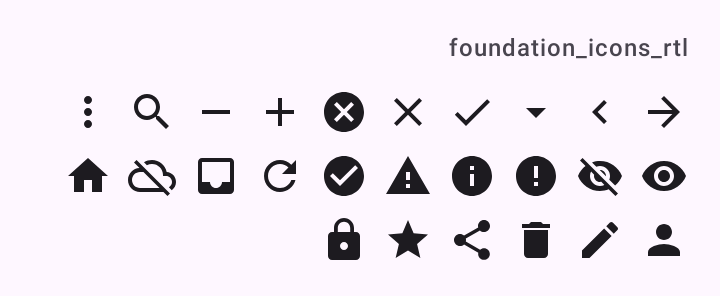
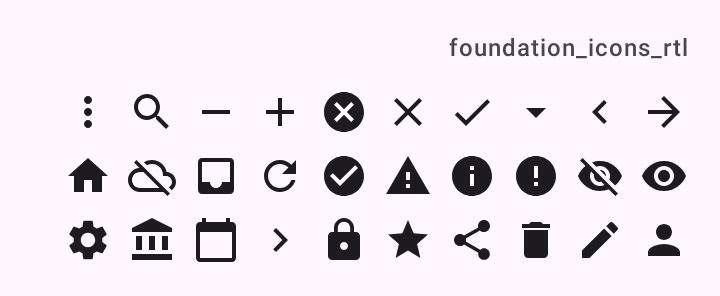
Add CalendarToday, AccountBalance, Settings and ChevronLeft to DSIcons
Material Icons paths like the rest, checked against the Compose material-icons-extended 1.7.8 sources
(Icons.Filled.*) and google/material-design-icons. ChevronLeft auto-mirrors, the pair of ChevronRight. The
reference-app Android skeleton drew these by hand in AppIcons (its bank is the older, asymmetric Material shape;
DSKit takes the current one).
Tests: foundation_icons screenshots re-recorded with the four new icons at the end of the grid.

Claude-Session: https://claude.ai/code/session_01RPbpMUomGDBckwBUsFQprE

diff --git a/components/src/main/kotlin/io/github/romulomga/dskit/utilities/DSIcons.kt b/components/src/main/kotlin/io/github/romulomga/dskit/utilities/DSIcons.kt
@@ -9,9 +9,9 @@ import androidx.compose.ui.graphics.vector.addPathNodes
 import androidx.compose.ui.unit.dp
 
 /**
- * Os ícones do Material que os próprios componentes do DSKit desenham, com os nomes do Material (`Icons.Filled.*`).
- * Os de direção (voltar, chevron) espelham sozinhos em árabe. Ícones do app entram pelos parâmetros
- * `icon: ImageVector` dos componentes.
+ * Os ícones do Material que os próprios componentes do DSKit desenham e os que todo app repete (abas, ajustes,
+ * calendário), com os nomes do Material (`Icons.Filled.*`). Os de direção (voltar, chevron) espelham sozinhos em
+ * árabe. Ícones só do app entram pelos parâmetros `icon: ImageVector` dos componentes.
  */
 public object DSIcons {
     /** Voltar, na barra superior. */
@@ -27,6 +27,15 @@ public object DSIcons {
         icon(
             "ChevronRight",
             "M10,6L8.59,7.41 13.17,12l-4.58,4.59L10,18l6,-6z",
+            autoMirror = true
+        )
+    }
+
+    /** Anterior (o par do [ChevronRight]): o mês ou o ano de antes, num seletor de período. */
+    public val ChevronLeft: ImageVector by lazy {
+        icon(
+            "ChevronLeft",
+            "M15.41,7.41L14,6l-6,6 6,6 1.41,-1.41L10.83,12z",
             autoMirror = true
         )
     }
@@ -196,6 +205,36 @@ public object DSIcons {
             "M18,8h-1L17,6c0,-2.76 -2.24,-5 -5,-5S7,3.24 7,6v2L6,8c-1.1,0 -2,0.9 -2,2v10c0,1.1 0.9,2 2,2h12c1.1,0 2,-0.9 2," +
                 "-2L20,10c0,-1.1 -0.9,-2 -2,-2zM12,17c-1.1,0 -2,-0.9 -2,-2s0.9,-2 2,-2 2,0.9 2,2 -0.9,2 -2,2zM15.1,8L8.9,8L8.9," +
                 "6c0,-1.71 1.39,-3.1 3.1,-3.1 1.71,0 3.1,1.39 3.1,3.1v2z"
+        )
+    }
+
+    /** Data, agenda, feriados. */
+    public val CalendarToday: ImageVector by lazy {
+        icon(
+            "CalendarToday",
+            "M20,3h-1V1h-2v2H7V1H5v2H4c-1.1,0 -2,0.9 -2,2v16c0,1.1 0.9,2 2,2h16c1.1,0 2,-0.9 2,-2V5c0,-1.1 -0.9,-2 -2,-2z" +
+                "M20,21H4V8h16v13z"
+        )
+    }
+
+    /** Banco, conta, finanças. */
+    public val AccountBalance: ImageVector by lazy {
+        icon("AccountBalance", "M4,10h3v7H4zM10.5,10h3v7h-3zM2,19h20v3H2zM17,10h3v7h-3zM12,1L2,6v2h20V6z")
+    }
+
+    /** Ajustes. */
+    public val Settings: ImageVector by lazy {
+        icon(
+            "Settings",
+            "M19.14,12.94c0.04,-0.3 0.06,-0.61 0.06,-0.94c0,-0.32 -0.02,-0.64 -0.07,-0.94l2.03,-1.58c0.18,-0.14 0.23,-0.41 " +
+                "0.12,-0.61l-1.92,-3.32c-0.12,-0.22 -0.37,-0.29 -0.59,-0.22l-2.39,0.96c-0.5,-0.38 -1.03,-0.7 -1.62,-0.94L14.4," +
+                "2.81c-0.04,-0.24 -0.24,-0.41 -0.48,-0.41h-3.84c-0.24,0 -0.43,0.17 -0.47,0.41L9.25,5.35C8.66,5.59 8.12,5.92 " +
+                "7.63,6.29L5.24,5.33c-0.22,-0.08 -0.47,0 -0.59,0.22L2.74,8.87C2.62,9.08 2.66,9.34 2.86,9.48l2.03,1.58C4.84," +
+                "11.36 4.8,11.69 4.8,12s0.02,0.64 0.07,0.94l-2.03,1.58c-0.18,0.14 -0.23,0.41 -0.12,0.61l1.92,3.32c0.12,0.22 " +
+                "0.37,0.29 0.59,0.22l2.39,-0.96c0.5,0.38 1.03,0.7 1.62,0.94l0.36,2.54c0.05,0.24 0.24,0.41 0.48,0.41h3.84c0.24," +
+                "0 0.44,-0.17 0.47,-0.41l0.36,-2.54c0.59,-0.24 1.13,-0.56 1.62,-0.94l2.39,0.96c0.22,0.08 0.47,0 0.59,-0.22l1.92," +
+                "-3.32c0.12,-0.22 0.07,-0.47 -0.12,-0.61L19.14,12.94zM12,15.6c-1.98,0 -3.6,-1.62 -3.6,-3.6s1.62,-3.6 3.6," +
+                "-3.6s3.6,1.62 3.6,3.6S13.98,15.6 12,15.6z"
         )
     }
 

diff --git a/components/src/test/kotlin/io/github/romulomga/dskit/FoundationScreenshotTest.kt b/components/src/test/kotlin/io/github/romulomga/dskit/FoundationScreenshotTest.kt
@@ -54,7 +54,7 @@ class FoundationScreenshotTest : ScreenshotTestBase() {
                 DSIcons.Add, DSIcons.Remove, DSIcons.Search, DSIcons.MoreVert, DSIcons.Visibility, DSIcons.VisibilityOff,
                 DSIcons.Error, DSIcons.Info, DSIcons.Warning, DSIcons.CheckCircle, DSIcons.Refresh, DSIcons.Inbox,
                 DSIcons.CloudOff, DSIcons.Home, DSIcons.Person, DSIcons.Edit, DSIcons.Delete, DSIcons.Share, DSIcons.Star,
-                DSIcons.Lock
+                DSIcons.Lock, DSIcons.ChevronLeft, DSIcons.CalendarToday, DSIcons.AccountBalance, DSIcons.Settings
             ).forEach { Icon(it, contentDescription = null, tint = DSTheme.colors.onSurface) }
         }
     }

diff --git a/CHANGELOG.md b/CHANGELOG.md
@@ -6,6 +6,13 @@ quebra vem descrita aqui com o código de migração.
 
 ## [Não lançado]
 
+### Adicionado
+
+- `DSIcons.CalendarToday`, `DSIcons.AccountBalance`, `DSIcons.Settings` e `DSIcons.ChevronLeft` (o par do
+  `ChevronRight`, espelhado em árabe): os caminhos do Material Icons, como os outros. O DSKit iOS não tem catálogo
+  de ícones (usa os SF Symbols `calendar`, `building.columns`, `gearshape` e `chevron.backward` direto), então os
+  nomes são os do Material. Pedidos pelo esqueleto Android do reference-app, que os desenhava à mão.
+
 ### Mudado
 
 - O build troca o `buildSrc` (`Versions.kt`, `Dependencies.kt`, `Configs.kt`) pelo catálogo `gradle/libs.versions.toml`,
